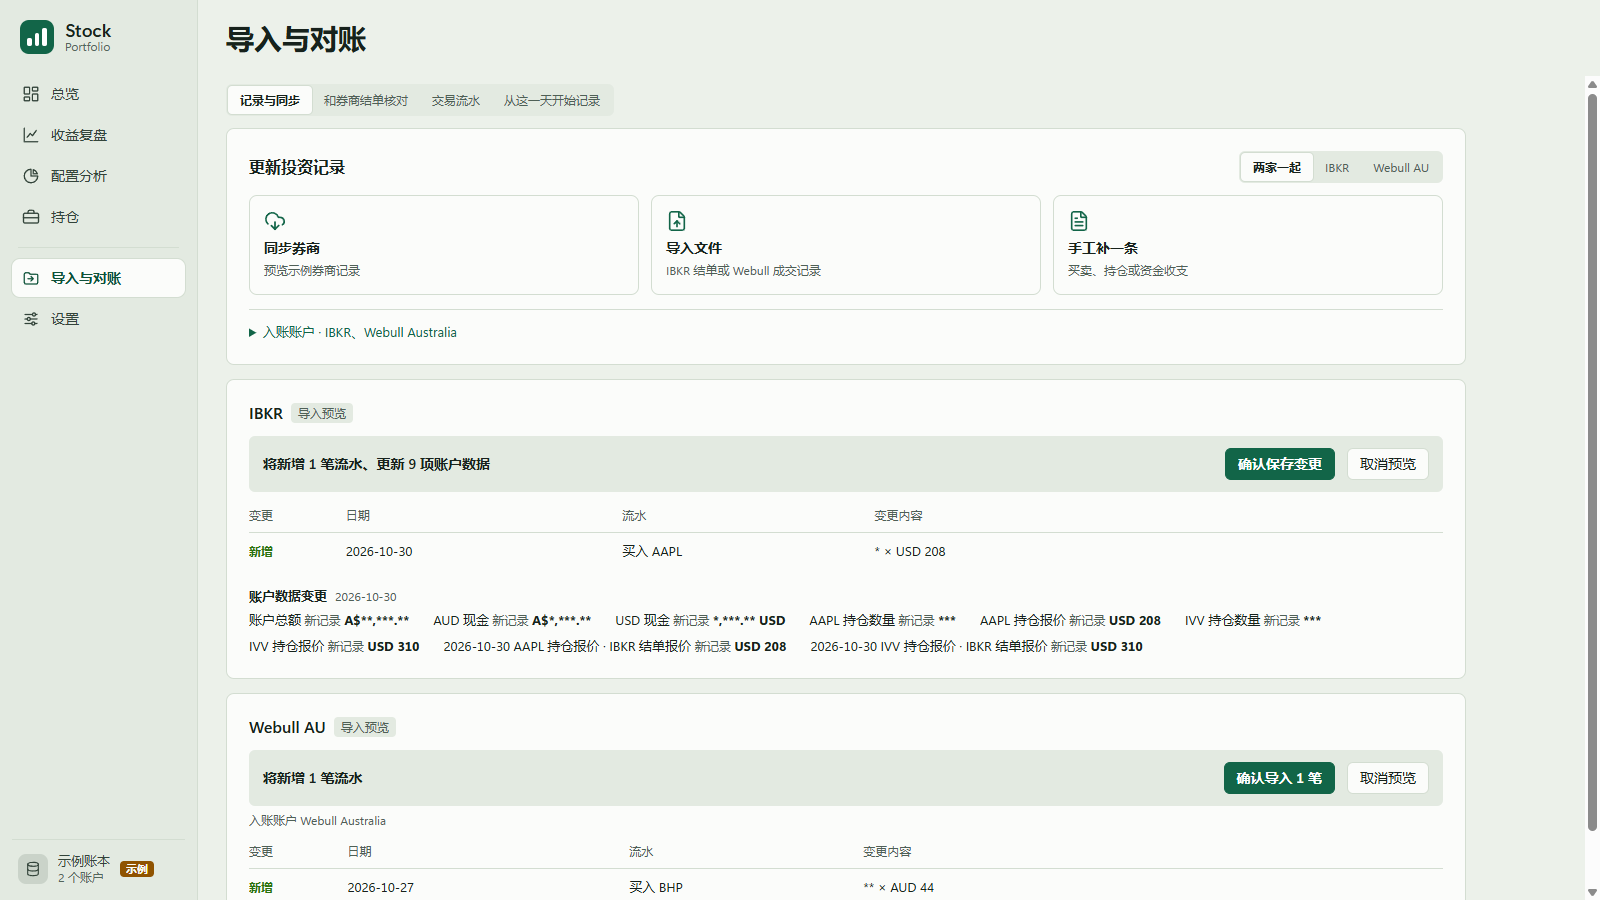
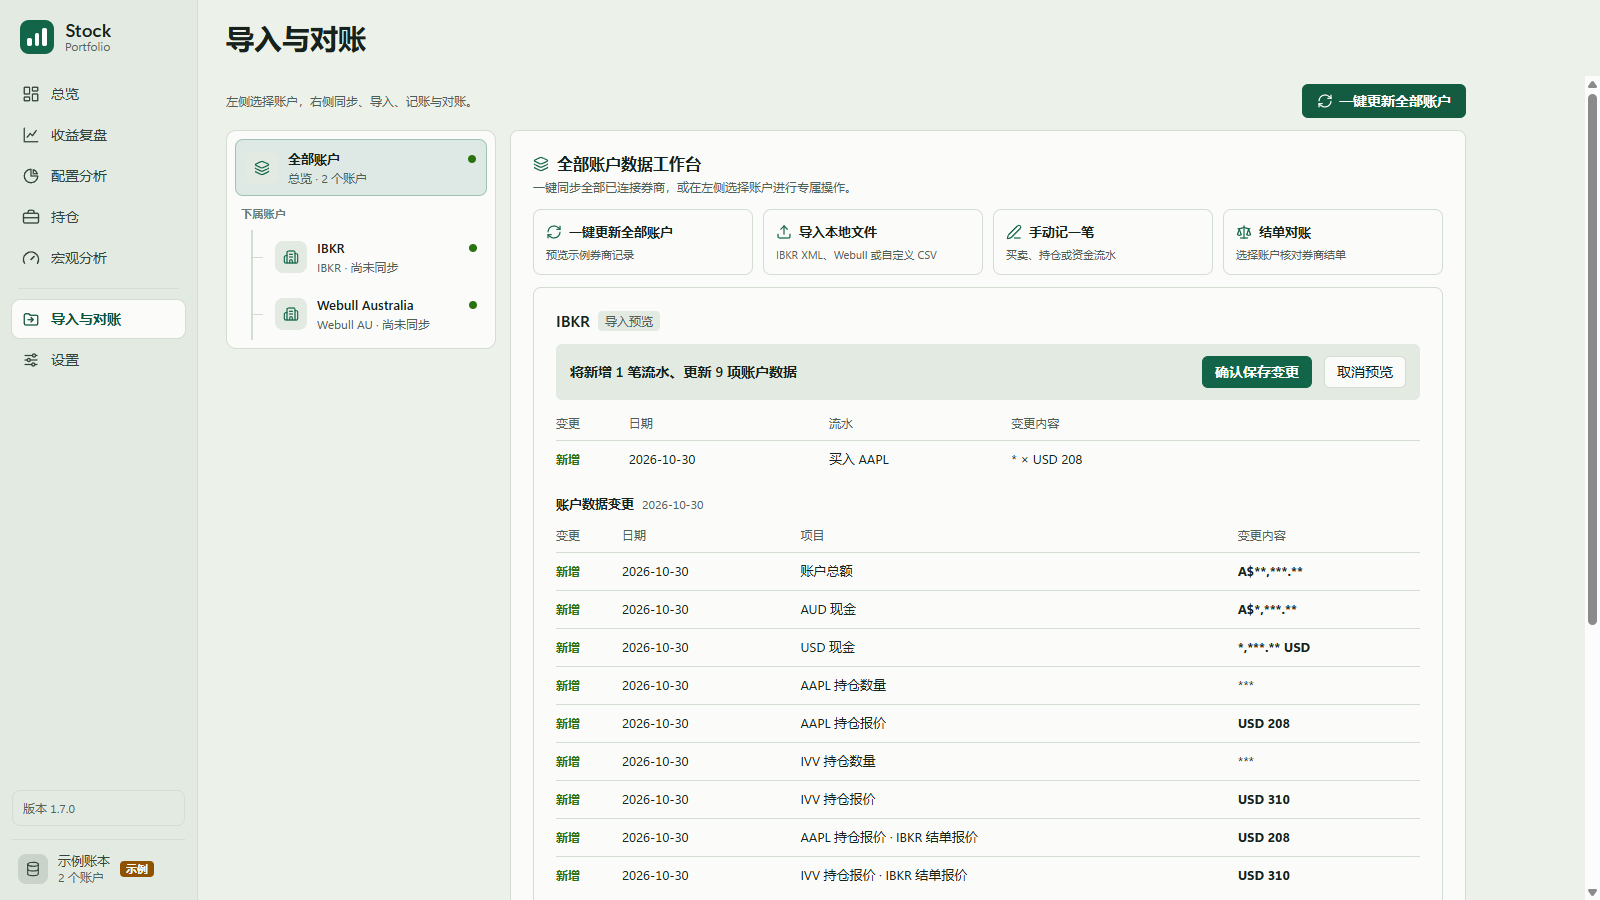
Update READMEs and screenshots for 1.7.0
Retake every README screenshot from the 1.7.0 sample ledger with amounts and
share counts hidden, add a Settings screenshot and section, describe the new
Import & Reconcile workspace and account management, and point Settings paths
in the detailed guide at the four new categories.

diff --git a/desktop/README.md b/desktop/README.md
@@ -2,29 +2,29 @@
 
 运行 Windows x64 安装程序后，从 Windows 开始菜单打开 **Stock Portfolio**。旧版 1.0.x 无法打开升级后的加密账本。[已发布的 Windows 安装程序](https://github.com/JasonCodeMaker/Stock-Portfolio/releases)
 
-窗口按可用空间自动缩放，并在 16:9 和 21:9 布局之间切换。在 **设置 → 界面缩放** 可以设为 85% 至 130%，每次调整 5%。也可以用 `Ctrl+=` 或 `Ctrl++` 放大，`Ctrl+-` 缩小，`Ctrl+0` 恢复 100%。缩放偏好随应用保存，切换账本后也会保留。
+窗口按可用空间自动缩放，并在 16:9 和 21:9 布局之间切换。在 **设置 → 通用与外观 → 界面缩放** 可以设为 85% 至 130%，每次调整 5%。也可以用 `Ctrl+=` 或 `Ctrl++` 放大，`Ctrl+-` 缩小，`Ctrl+0` 恢复 100%。缩放偏好随应用保存，切换账本后也会保留。
 
 打开 **设置**，顶部会显示当前运行的应用版本。
 
-从 1.4.0 升级后，在「导入与对账」同步 IBKR。预览会列出已有流水可补充的券商凭据和带日期的结单报价。持仓把剩余股份的含费买入成本、市值和未实现盈亏按同一估值汇率折成澳元。逐笔成交的报表汇率可在持仓明细的关联流水中查看。可在「和券商结单核对」比较同日现金、持仓和净值。
+从 1.4.0 升级后，在「导入与对账」同步 IBKR。预览会列出已有流水可补充的券商凭据和带日期的结单报价。持仓把剩余股份的含费买入成本、市值和未实现盈亏按同一估值汇率折成澳元。逐笔成交的报表汇率可在持仓明细的关联流水中查看。选择账户后点「结单对账」，可比较同日现金、持仓和净值。
 
 ## 接手现有账本
 
 首页可预览本机 Wealthfolio 账户、流水、行情和设置的数量，或选择未加密的 SQLite 账本备份。确认迁入后，应用在当前 Windows 用户的 `%APPDATA%\Stack Portfolio\portfolio.sqlite` 中独立保存账本。保留原记录编号、手工更正、同步去重记录、配置目标、ETF 数据及原始估值。加密的 Wealthfolio 备份可先在 Wealthfolio 中导出为未加密的本地数据库。
 
-在 **设置 → 券商连接** 重新授权 IBKR Flex 和 Webull Australia。IBKR 按需读取最近 365 天，Webull 读取最近六个月。更早的记录可从文件导入。现金流水未覆盖时，可用同日月结单核对并补录。**设置 → 账本** 提供本地备份和恢复。恢复已有正式账本时，会先保留一份恢复前的副本。
+在 **设置 → 账户与券商连接** 重新授权 IBKR Flex 和 Webull Australia。IBKR 按需读取最近 365 天，Webull 读取最近六个月。更早的记录可从文件导入。现金流水未覆盖时，可用同日月结单核对并补录。**设置 → 账本与备份** 提供本地备份和恢复。恢复已有正式账本时，会先保留一份恢复前的副本。
 
 ## 加密、备份与恢复
 
 首次启动 1.1 后，应用会加密正式账本、示例账本及应用数据目录内的旧版 SQLite 账本备份。升级会先读取已提交的数据库日志，再校验加密副本，最后原子替换文件。平时使用 SQLCipher 按页读写。随机生成的 256 位密钥由当前 Windows 用户保护，券商 token另有一层 Windows 加密。
 
-在 **设置 → 账本 → 备份账本** 创建 `.spbackup` 文件。为备份设置独立密码，将密码保存在密码管理器。重装系统或换电脑后，可在欢迎页选择 **从账本备份恢复**。忘记备份密码且已失去原账本访问权限时，无法恢复这份密码备份。跨 Windows 账户恢复后，需要重新授权券商连接。
+在 **设置 → 账本与备份 → 备份账本** 创建 `.spbackup` 文件。为备份设置独立密码，将密码保存在密码管理器。重装系统或换电脑后，可在欢迎页选择 **从账本备份恢复**。忘记备份密码且已失去原账本访问权限时，无法恢复这份密码备份。跨 Windows 账户恢复后，需要重新授权券商连接。
 
 **加密旧备份** 可把其他目录中的旧版明文备份、或本机的自动恢复副本，直接转成密码备份。转换保留来源文件。应用只会自动升级自己数据目录中的账本，其他位置的原始文件仍需单独保管。每次覆盖已有账本前，应用会在数据目录保存一份经校验的本机加密副本。
 
 若 Windows 配置损坏导致自动解锁失败，请保留整个 `%APPDATA%\Stack Portfolio` 目录。退出应用后可将目录改名留存，重新启动应用，再从独立的密码备份恢复。
 
-在 **设置 → 账本 → 恢复出厂设置** 可清除应用管理的本地数据并回到首次使用引导。清除范围包括账本、券商连接凭据、密钥、设置、缓存和应用数据目录中的备份。券商账户、Wealthfolio 原始数据和保存在其他目录的备份会保留。如果文件被占用，请关闭占用它的程序并重新打开 Stock Portfolio，应用会继续清理。
+在 **设置 → 通用与外观 → 恢复出厂设置** 可清除应用管理的本地数据并回到首次使用引导。清除范围包括账本、券商连接凭据、密钥、设置、缓存和应用数据目录中的备份。券商账户、Wealthfolio 原始数据和保存在其他目录的备份会保留。如果文件被占用，请关闭占用它的程序并重新打开 Stock Portfolio，应用会继续清理。
 
 正式账本的当前总览按布里斯班时间显示各市场最近收盘。账户的最近收盘变动按当前持仓和现金计算，分列股价涨跌与日汇率折算影响。历史估值和收益复盘使用所选期间的完整收盘数据。
 
@@ -36,15 +36,17 @@
 
 持仓现价显示估值当日或之前的最近行情及其来源，缺少行情会显示“待报价”。买卖成交用于计算成本、数量和现金。IBKR Flex 同时提供交易日和报表时间时，流水按券商交易日入账。
 
-点击左下角的账本名称可切换正式账本与示例账本。示例组合有一份 Webull 成交文件和一份月结单。在 **导入与对账 → 同步券商** 分别预览两家券商，确认 Webull 的一笔买入。打开示例月结单，填入期末余额和持仓，比较差异，再按凭证补录 A$1,000 入金并完成对账。总览会显示 A$128,400 总资产和 A$3,200 期间投资盈亏。再次同步时，Webull 会显示「没有新变化」。
+点击左下角的账本名称可切换正式账本与示例账本。示例组合有一份 Webull 成交文件和一份月结单。在 **导入与对账** 点 **一键更新全部账户** 预览两家券商，确认 Webull 的一笔买入。打开示例月结单，填入期末余额和持仓，比较差异，再按凭证补录 A$1,000 入金并完成对账。总览会显示 A$128,400 总资产和 A$3,200 期间投资盈亏。再次同步时，Webull 会显示「没有新变化」。
 
 **配置分析** 的公司敞口方框图合并直接持股和经 ETF 持有的金额。点公司可查看来源，点 ETF 的 **基金成分** 可查看成分。**设置目标** 接受每只 ETF、个股合计和现金的占比，合计须为 100%，目标随所选账户范围保存。
 
-**手工补一条** 可按凭据补买卖、某日的持股数量或资金收支。以后补回成交，应用会核对股数并列出差额。在证券明细中点 **补报价** 或 **补成本**，可补充该账户和证券的数据。
+在 **导入与对账** 选择账户后点 **手动记一笔**，可按凭据补买卖、某日的持股数量或资金收支。以后补回成交，应用会核对股数并列出差额。在证券明细中点 **补报价** 或 **补成本**，可补充该账户和证券的数据。
+
+**导入与对账** 账户列表下方的 **添加账户** 打开添加账户向导。选择账户后点 **管理账户**，可查看账户类型、币种、连接和最近同步；确认后可删除该账户。删除无法撤销，请先备份账本。
 
 ## 收益复盘
 
-从左侧打开 **收益复盘**，选择账户范围和期间。结论卡显示组合的时间加权收益率、相对所选指数的收益差、最大回撤和最长跑输区间。正式账本会自动补齐当前区间的指数总回报、澳元汇率和持仓日收盘价，数据来自 Yahoo Finance 与 FRED 的公开接口，无需 API Key，请求只包含证券代码和日期。可在 **设置 → 券商连接 → 行情自动更新** 关闭或手动更新。行情缓存和复盘笔记随本地加密账本一起备份。
+从左侧打开 **收益复盘**，选择账户范围和期间。结论卡显示组合的时间加权收益率、相对所选指数的收益差、最大回撤和最长跑输区间。正式账本会自动补齐当前区间的指数总回报、澳元汇率和持仓日收盘价，数据来自 Yahoo Finance 与 FRED 的公开接口，无需 API Key，请求只包含证券代码和日期。可在 **设置 → 行情与分类规则 → 行情自动更新** 关闭或手动更新。行情缓存和复盘笔记随本地加密账本一起备份。
 
 在图中悬停读取每日数值，点选一天查看持仓、现金占比和流水。拖选可按新期间重新计算。切换 **收益差** 看相对所选基准的变化，期间达到三个月时可切换 **回撤**。**持仓贡献** 按澳元贡献列出期间持有和已卖清的证券，计入对应的分红及费用。现金利息和待归属收支单列，可点开查看原始流水。可在 **数据来源与计算方法** 查看行情覆盖。保存笔记后，点击 **重开区间** 可核对记录时的指标与当前重算值。
 
@@ -60,7 +62,7 @@
 
 ## 导出诊断日志
 
-遇到问题时，从 **设置 → 诊断日志** 打开导出预览。欢迎页和操作提示也有同一入口。默认显示最近一次问题，可切换到过去 24 小时或全部保留事件。如果结果异常但界面没有报错，可以先点 **标记此刻的问题**。确认预览后保存为 `.jsonl` 文件，由你决定是否分享。
+遇到问题时，从 **设置 → 通用与外观 → 本地诊断日志** 打开导出预览。欢迎页和操作提示也有同一入口。默认显示最近一次问题，可切换到过去 24 小时或全部保留事件。如果结果异常但界面没有报错，可以先点 **标记此刻的问题**。确认预览后保存为 `.jsonl` 文件，由你决定是否分享。
 
 诊断记录留在本机，只包含应用版本、操作、阶段、结果等排障信息。凭证、持仓、交易和原始异常文本不写入日志。最多保留 7 天、总计 5 MiB。可暂停或清除记录。应用无法打开时，可在 `%APPDATA%\Stack Portfolio\diagnostics` 找到已保留的日志。
 

diff --git a/README.md b/README.md
@@ -87,9 +87,15 @@ Check the U.S. equity session and Eastern Time alongside the CNN Fear & Greed se
 
 ### Import & Sync
 
-Sync a broker or import a statement file, check the changes first, then confirm. Reconcile cash, positions, and net value against a broker statement, or add a trade or cash flow by hand.
+Pick an account on the left and work on it on the right, or press **Update all accounts** to sync every connected broker at once. Every change is listed in a table before anything is saved. From the same workspace you can import a statement file, record a trade or cash movement, reconcile cash, holdings, and net value against a broker statement, set opening balances, and add or delete accounts.
 
 ![Import & Sync](docs/screenshots/en/imports.png)
+
+### Settings
+
+Four categories: **General & Appearance**, **Accounts & Brokers**, **Ledger & Backups**, and **Market Data & Rules**. A status strip at the top shows broker connections, the last market update, and the last local backup.
+
+![Settings](docs/screenshots/en/settings.png)
 
 ---
 
@@ -113,7 +119,7 @@ Sync a broker or import a statement file, check the changes first, then confirm.
 3. The interface is available in English, Simplified Chinese, and Traditional Chinese.
 
 > [!TIP]
-> It's a good idea to create a password-protected `.spbackup` copy in **Settings → Ledger → Back up ledger** so you can restore your data if you ever reinstall Windows or switch PCs.
+> It's a good idea to create a password-protected `.spbackup` copy in **Settings → Ledger & Backups → Back up ledger** so you can restore your data if you ever reinstall Windows or switch PCs.
 
 <details>
 <summary>Preview the Welcome screen</summary>

diff --git a/README.zh-CN.md b/README.zh-CN.md
@@ -87,9 +87,15 @@
 
 ### 导入与对账
 
-一键同步券商或导入结单文件，先预览变更再确认入账；可以和券商结单比较现金、持仓和净值差额，也可以手工补录买卖或资金收支。
+左侧选择账户、右侧处理，或点「一键更新全部账户」同时同步所有已连接的券商；每项变更先以表格列出，确认后才入账。同一个工作台里还可以导入结单文件、手动记一笔买卖或资金收支、按券商结单核对现金、持仓和净值、期初建账，以及添加和删除账户。
 
 ![导入与对账](docs/screenshots/zh-CN/imports.png)
+
+### 设置
+
+分为「通用与外观」「账户与券商连接」「账本与备份」「行情与分类规则」四类；顶部状态栏显示券商连接、最近行情更新和最近一次本地备份。
+
+![设置](docs/screenshots/zh-CN/settings.png)
 
 ---
 
@@ -113,7 +119,7 @@
 3. 界面支持简体中文、繁體中文和 English。
 
 > [!TIP]
-> 建议在 **设置 → 账本 → 备份账本** 创建一份带密码的 `.spbackup` 备份，万一以后重装系统或换电脑可以直接恢复。
+> 建议在 **设置 → 账本与备份 → 备份账本** 创建一份带密码的 `.spbackup` 备份，万一以后重装系统或换电脑可以直接恢复。
 
 <details>
 <summary>预览欢迎页</summary>
